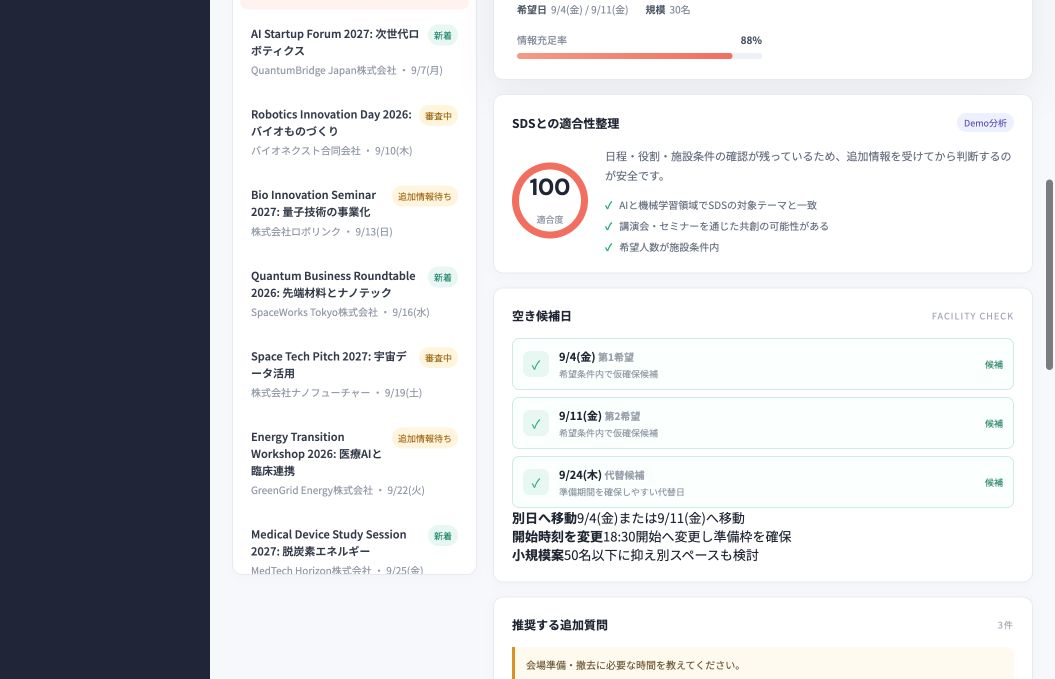
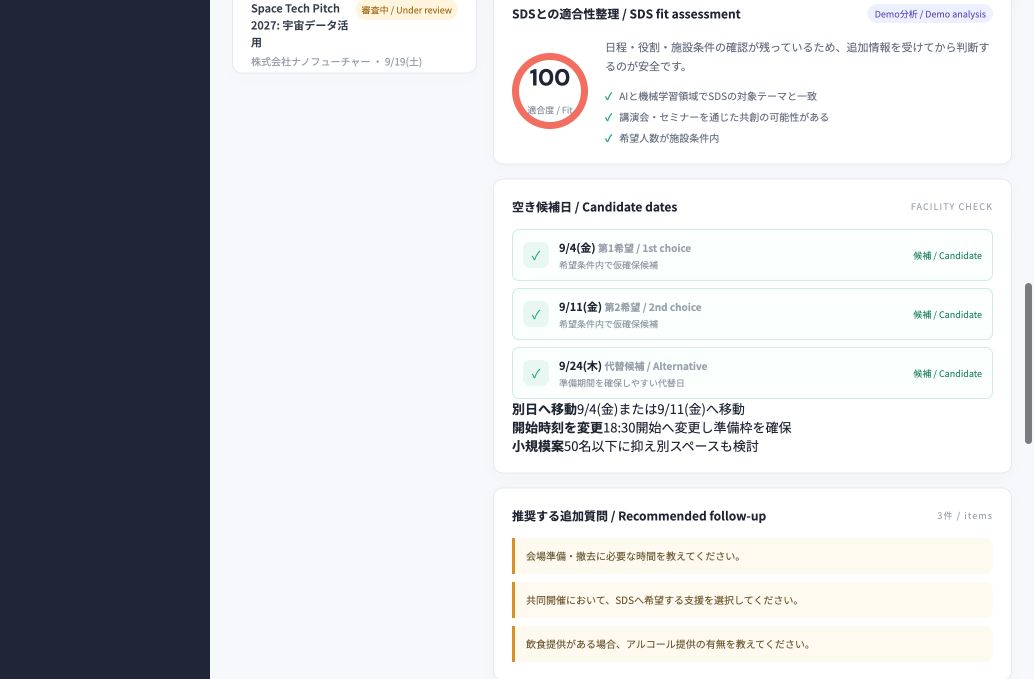
Add bilingual dashboard labels

diff --git a/public/app.js b/public/app.js
@@ -32,11 +32,11 @@ const DEMO_APPLICATION = {
 };
 
 let CASES = [
-  { id: "SDS-2026-0148", title: "AI Startup Partnership Night", company: "ネクストパルス株式会社", status: "企画面談候補", color: "coral", date: "9月17日", application: DEMO_APPLICATION },
-  { id: "SDS-2026-0147", title: "Bio Founders Roundtable", company: "ミライ細胞研究会", status: "追加情報待ち", color: "amber", date: "9月22日" },
-  { id: "SDS-2026-0146", title: "宇宙データ活用ワークショップ", company: "Orbital Mesh", status: "新着", color: "mint", date: "10月3日" },
-  { id: "SDS-2026-0145", title: "量子×金融 勉強会", company: "クォンタムブリッジ", status: "審査中", color: "amber", date: "10月8日" },
-  { id: "SDS-2026-0144", title: "地域エネルギー共創会議", company: "東海エナジーラボ", status: "新着", color: "mint", date: "10月15日" },
+  { id: "SDS-2026-0148", title: "AI Startup Partnership Night", company: "ネクストパルス株式会社", status: "企画面談候補 / Planning candidate", color: "coral", date: "9月17日", application: DEMO_APPLICATION },
+  { id: "SDS-2026-0147", title: "Bio Founders Roundtable", company: "ミライ細胞研究会", status: "追加情報待ち / Awaiting info", color: "amber", date: "9月22日" },
+  { id: "SDS-2026-0146", title: "宇宙データ活用ワークショップ", company: "Orbital Mesh", status: "新着 / New", color: "mint", date: "10月3日" },
+  { id: "SDS-2026-0145", title: "量子×金融 勉強会", company: "クォンタムブリッジ", status: "審査中 / Under review", color: "amber", date: "10月8日" },
+  { id: "SDS-2026-0144", title: "地域エネルギー共創会議", company: "東海エナジーラボ", status: "新着 / New", color: "mint", date: "10月15日" },
 ];
 
 let state = { application: structuredClone(DEMO_APPLICATION), analysis: null, activeCase: DEMO_APPLICATION.id, scenario: false, analyzing: false };
@@ -44,6 +44,24 @@ let state = { application: structuredClone(DEMO_APPLICATION), analysis: null, ac
 const $ = (selector) => document.querySelector(selector);
 const escapeHtml = (value) => String(value ?? "").replace(/[&<>'"]/g, (char) => ({ "&": "&amp;", "<": "&lt;", ">": "&gt;", "'": "&#39;", '"': "&quot;" })[char]);
 const initials = (value) => String(value || "S").replace(/株式会社|合同会社/g, "").slice(0, 2);
+const statusLabel = (status) => ({
+  "企画面談候補": "企画面談候補 / Planning candidate",
+  "追加情報待ち": "追加情報待ち / Awaiting info",
+  "新着": "新着 / New",
+  "審査中": "審査中 / Under review",
+}[status] || status);
+const candidateLabel = (label) => ({
+  "第1希望": "第1希望 / 1st choice",
+  "第2希望": "第2希望 / 2nd choice",
+  "代替候補": "代替候補 / Alternative",
+}[label] || label);
+const priorityLabel = (priority) => ({ 高: "高 / High", 中: "中 / Medium", 低: "低 / Low" }[priority] || priority);
+const ownerLabel = (owner) => ({ 運営: "運営 / Operations", 企画: "企画 / Planning", コミュニティ: "コミュニティ / Community" }[owner] || owner);
+const roleLabel = (role) => ({
+  "課題提供・審査員": "課題提供・審査員 / Challenge owner & judge",
+  "登壇・デモ": "登壇・デモ / Speaker & demo",
+  "個別面談": "個別面談 / 1:1 meeting",
+}[role] || role);
 const formatDate = (value) => {
   const normalized = String(value || "").replaceAll("/", "-");
   return normalized ? new Intl.DateTimeFormat("ja-JP", { month: "numeric", day: "numeric", weekday: "short" }).format(new Date(`${normalized}T00:00:00`)) : "未定";
@@ -105,19 +123,19 @@ function demoAnalysis() {
 
 function renderCaseList() {
   if ($("#queueCount")) $("#queueCount").textContent = CASES.length;
-  if ($("#caseCount")) $("#caseCount").textContent = `${CASES.length}件の案件`;
-  if ($("#unprocessedKpi")) $("#unprocessedKpi").innerHTML = `${CASES.length}<span class="kpi-unit">件</span>`;
-  $("#caseList").innerHTML = CASES.map((item) => `<div class="case-row ${item.id === state.activeCase ? "selected" : ""}" data-case-id="${item.id}"><div class="case-row-top"><div class="case-row-title">${escapeHtml(item.title)}</div><span class="status-pill ${item.color}">${escapeHtml(item.status)}</span></div><div class="case-row-company">${escapeHtml(item.company)} ・ ${item.date}</div></div>`).join("");
+  if ($("#caseCount")) $("#caseCount").textContent = `${CASES.length}件 / cases`;
+  if ($("#unprocessedKpi")) $("#unprocessedKpi").innerHTML = `${CASES.length}<span class="kpi-unit">件 / cases</span>`;
+  $("#caseList").innerHTML = CASES.map((item) => `<div class="case-row ${item.id === state.activeCase ? "selected" : ""}" data-case-id="${item.id}"><div class="case-row-top"><div class="case-row-title">${escapeHtml(item.title)}</div><span class="status-pill ${item.color}">${escapeHtml(statusLabel(item.status))}</span></div><div class="case-row-company">${escapeHtml(item.company)} ・ ${item.date}</div></div>`).join("");
   document.querySelectorAll(".case-row").forEach((row) => row.addEventListener("click", () => { const item = CASES.find((candidate) => candidate.id === row.dataset.caseId); if (item?.application) state.application = structuredClone(item.application); state.activeCase = row.dataset.caseId; state.scenario = false; state.analysis = demoAnalysis(); render(); }));
 }
 
 function renderAnalysis(a) {
-  const questionHtml = a.missingQuestions?.length ? a.missingQuestions.map((question) => `<div class="question-item">${escapeHtml(question)}</div>`).join("") : `<div class="empty-state">現時点で大きな不足はありません。運営確認へ進めます。</div>`;
-  const dates = a.candidates?.map((candidate) => `<div class="date-item ${candidate.available ? "available" : "blocked"}"><div class="date-icon">${candidate.available ? "✓" : "×"}</div><div class="date-copy"><strong>${escapeHtml(formatDate(candidate.date))} <span class="muted">${escapeHtml(candidate.label)}</span></strong><small>${escapeHtml(candidate.reason || "")}</small></div><span class="date-badge">${candidate.available ? "候補" : "利用困難"}</span></div>`).join("") || "";
-  const members = a.memberMatches?.map((member) => `<div class="member-item"><div class="member-avatar">${escapeHtml(initials(member.label))}</div><div><strong>${escapeHtml(member.label)}</strong><small>${escapeHtml(member.reason)}</small></div><span class="match-tag">${escapeHtml(member.role)}</span></div>`).join("") || `<div class="empty-state">候補を整理中です。</div>`;
-  const tasks = a.tasks?.map((task) => `<div class="task-item"><span class="task-check"></span><div><strong>${escapeHtml(task.label)}</strong><small>${escapeHtml(task.owner)}</small></div><span class="task-meta priority-${task.priority === "高" ? "high" : task.priority === "中" ? "mid" : "low"}">${escapeHtml(task.priority)}</span></div>`).join("") || "";
+  const questionHtml = a.missingQuestions?.length ? a.missingQuestions.map((question) => `<div class="question-item">${escapeHtml(question)}</div>`).join("") : `<div class="empty-state">現時点で大きな不足はありません。運営確認へ進めます。 / No major gaps found. Ready for operator review.</div>`;
+  const dates = a.candidates?.map((candidate) => `<div class="date-item ${candidate.available ? "available" : "blocked"}"><div class="date-icon">${candidate.available ? "✓" : "×"}</div><div class="date-copy"><strong>${escapeHtml(formatDate(candidate.date))} <span class="muted">${escapeHtml(candidateLabel(candidate.label))}</span></strong><small>${escapeHtml(candidate.reason || "")}</small></div><span class="date-badge">${candidate.available ? "候補 / Candidate" : "利用困難 / Unavailable"}</span></div>`).join("") || "";
+  const members = a.memberMatches?.map((member) => `<div class="member-item"><div class="member-avatar">${escapeHtml(initials(member.label))}</div><div><strong>${escapeHtml(member.label)}</strong><small>${escapeHtml(member.reason)}</small></div><span class="match-tag">${escapeHtml(roleLabel(member.role))}</span></div>`).join("") || `<div class="empty-state">候補を整理中です。 / Matching candidates are being prepared.</div>`;
+  const tasks = a.tasks?.map((task) => `<div class="task-item"><span class="task-check"></span><div><strong>${escapeHtml(task.label)}</strong><small>${escapeHtml(ownerLabel(task.owner))}</small></div><span class="task-meta priority-${task.priority === "高" ? "high" : task.priority === "中" ? "mid" : "low"}">${escapeHtml(priorityLabel(task.priority))}</span></div>`).join("") || "";
   const alternatives = a.alternativePlans?.map((item) => `<div class="alternative"><strong>${escapeHtml(item.title)}</strong><span>${escapeHtml(item.detail)}</span></div>`).join("") || "";
-  return `<div class="detail-grid"><div class="detail-card"><div class="section-heading"><h3>SDSとの適合性整理</h3><span class="mode-tag ${a.mode === "kimi" ? "kimi" : ""}">${a.mode === "kimi" ? "KIMI分析" : "Demo分析"}</span></div><div class="fit-layout"><div class="fit-score" style="background:conic-gradient(var(--coral) 0 ${Math.round((a.fitScore || 0) * 3.6)}deg,#f0f1f4 ${Math.round((a.fitScore || 0) * 3.6)}deg 360deg)"><strong>${a.fitScore}</strong><small>適合度</small></div><div class="fit-copy"><p>${escapeHtml(a.fitSummary || a.recommendedReason)}</p><ul class="bullet-list">${a.fitReasons.map((reason) => `<li>${escapeHtml(reason)}</li>`).join("")}</ul></div></div></div><div class="detail-card date-card"><div class="section-heading"><h3>空き候補日</h3><span class="section-kicker">FACILITY CHECK</span></div><div class="date-list">${dates}</div><div class="alternative-list">${alternatives}</div></div><div class="detail-card"><div class="section-heading"><h3>推奨する追加質問</h3><span class="section-kicker">${a.missingQuestions?.length || 0}件</span></div><div class="questions">${questionHtml}</div></div><div class="detail-card"><div class="section-heading"><h3>会員・パートナー候補</h3><span class="section-kicker">匿名概要</span></div><div class="member-list">${members}</div></div><div class="detail-card"><div class="section-heading"><h3>運営タスク</h3><span class="section-kicker">${a.tasks?.length || 0}件</span></div><div class="task-list">${tasks}</div></div><div class="detail-card"><div class="section-heading"><h3>返信案</h3><button class="link-btn" data-action="copy-reply">コピー</button></div><div class="reply-box" id="replyDraft">${escapeHtml(a.replyDraft)}</div><div class="reply-footer"><button class="link-btn" data-action="edit-reply">返信案を編集する →</button></div></div></div>`;
+  return `<div class="detail-grid"><div class="detail-card"><div class="section-heading"><h3>SDSとの適合性整理 / SDS fit assessment</h3><span class="mode-tag ${a.mode === "kimi" ? "kimi" : ""}">${a.mode === "kimi" ? "KIMI分析 / KIMI analysis" : "Demo分析 / Demo analysis"}</span></div><div class="fit-layout"><div class="fit-score" style="background:conic-gradient(var(--coral) 0 ${Math.round((a.fitScore || 0) * 3.6)}deg,#f0f1f4 ${Math.round((a.fitScore || 0) * 3.6)}deg 360deg)"><strong>${a.fitScore}</strong><small>適合度 / Fit</small></div><div class="fit-copy"><p>${escapeHtml(a.fitSummary || a.recommendedReason)}</p><ul class="bullet-list">${a.fitReasons.map((reason) => `<li>${escapeHtml(reason)}</li>`).join("")}</ul></div></div></div><div class="detail-card date-card"><div class="section-heading"><h3>空き候補日 / Candidate dates</h3><span class="section-kicker">FACILITY CHECK</span></div><div class="date-list">${dates}</div><div class="alternative-list">${alternatives}</div></div><div class="detail-card"><div class="section-heading"><h3>推奨する追加質問 / Recommended follow-up</h3><span class="section-kicker">${a.missingQuestions?.length || 0}件 / items</span></div><div class="questions">${questionHtml}</div></div><div class="detail-card"><div class="section-heading"><h3>会員・パートナー候補 / Member & partner candidates</h3><span class="section-kicker">匿名概要 / Anonymous profiles</span></div><div class="member-list">${members}</div></div><div class="detail-card"><div class="section-heading"><h3>運営タスク / Operations tasks</h3><span class="section-kicker">${a.tasks?.length || 0}件 / items</span></div><div class="task-list">${tasks}</div></div><div class="detail-card"><div class="section-heading"><h3>返信案 / Reply draft</h3><button class="link-btn" data-action="copy-reply">コピー / Copy</button></div><div class="reply-box" id="replyDraft">${escapeHtml(a.replyDraft)}</div><div class="reply-footer"><button class="link-btn" data-action="edit-reply">返信案を編集する / Edit reply →</button></div></div></div>`;
 }
 
 function render() {
@@ -126,25 +144,25 @@ function render() {
   $("#completionKpi").innerHTML = `${a.completion}<span class="kpi-unit">%</span>`;
   const app = state.application;
   const activeCase = CASES.find((item) => item.id === state.activeCase) || {};
-  $("#caseDetail").innerHTML = `<div class="detail-hero"><div class="detail-hero-main"><div class="detail-title-line"><h2>${escapeHtml(app.title)}</h2><span class="status-pill ${activeCase.color || "coral"}">${escapeHtml(activeCase.status || "企画面談候補")}</span><span class="mode-tag ${a.mode === "kimi" ? "kimi" : ""}">${a.mode === "kimi" ? "KIMI分析済み" : "デモデータ"}</span></div><div class="hero-meta"><span><strong>申込ID</strong>${escapeHtml(app.id)}</span><span><strong>申込者</strong>${escapeHtml(app.company)}</span><span><strong>希望日</strong>${escapeHtml(formatDate(app.firstDate))} / ${escapeHtml(formatDate(app.secondDate))}</span><span><strong>規模</strong>${escapeHtml(app.attendeeCount)}名</span></div><div class="progress-block"><div class="progress-label"><span>情報充足率</span><strong>${a.completion}%</strong></div><div class="progress-track"><div class="progress-fill" style="width:${a.completion}%"></div></div></div></div><div class="hero-actions"><button class="secondary-btn" data-action="ask-more">追加情報を依頼</button><button class="primary-btn" data-action="advance">企画面談へ進める</button></div></div>${renderAnalysis(a)}`;
+  $("#caseDetail").innerHTML = `<div class="detail-hero"><div class="detail-hero-main"><div class="detail-title-line"><h2>${escapeHtml(app.title)}</h2><span class="status-pill ${activeCase.color || "coral"}">${escapeHtml(statusLabel(activeCase.status || "企画面談候補"))}</span><span class="mode-tag ${a.mode === "kimi" ? "kimi" : ""}">${a.mode === "kimi" ? "KIMI分析済み / KIMI analyzed" : "デモデータ / Demo data"}</span></div><div class="hero-meta"><span><strong>申込ID / Application ID</strong>${escapeHtml(app.id)}</span><span><strong>申込者 / Applicant</strong>${escapeHtml(app.company)}</span><span><strong>希望日 / Requested dates</strong>${escapeHtml(formatDate(app.firstDate))} / ${escapeHtml(formatDate(app.secondDate))}</span><span><strong>規模 / Scale</strong>${escapeHtml(app.attendeeCount)}名 / people</span></div><div class="progress-block"><div class="progress-label"><span>情報充足率 / Completeness</span><strong>${a.completion}%</strong></div><div class="progress-track"><div class="progress-fill" style="width:${a.completion}%"></div></div></div></div><div class="hero-actions"><button class="secondary-btn" data-action="ask-more">追加情報を依頼 / Request info</button><button class="primary-btn" data-action="advance">企画面談へ進める / Advance to planning</button></div></div>${renderAnalysis(a)}`;
   document.querySelectorAll("[data-action]").forEach((button) => button.addEventListener("click", () => handleAction(button.dataset.action)));
 }
 
 function handleAction(action) {
-  if (action === "copy-reply") navigator.clipboard?.writeText($("#replyDraft")?.textContent || "").then(() => toast("返信案をコピーしました"));
-  if (action === "edit-reply") toast("返信案の編集モードは次の拡張で追加できます");
-  if (action === "ask-more") toast("追加情報依頼タスクを作成しました");
-  if (action === "advance") toast("企画面談へ進める判断を記録しました");
+  if (action === "copy-reply") navigator.clipboard?.writeText($("#replyDraft")?.textContent || "").then(() => toast("返信案をコピーしました / Reply draft copied"));
+  if (action === "edit-reply") toast("返信案の編集モードは次の拡張で追加できます / Reply editing is planned for the next extension");
+  if (action === "ask-more") toast("追加情報依頼タスクを作成しました / Follow-up task created");
+  if (action === "advance") toast("企画面談へ進める判断を記録しました / Planning-meeting decision recorded");
 }
 
 async function runAnalysis() {
-  state.analyzing = true; $("#analyzeButton").classList.add("loading"); $("#analyzeButton").innerHTML = "✦ 分析中…";
+  state.analyzing = true; $("#analyzeButton").classList.add("loading"); $("#analyzeButton").innerHTML = "✦ 分析中 / Analyzing…";
   try {
     const response = await fetch("/api/analyze", { method: "POST", headers: { "content-type": "application/json" }, body: JSON.stringify(state.application) });
     const payload = await response.json();
     if (!response.ok) throw new Error(payload.error || "分析に失敗しました");
-    state.analysis = payload; render(); toast(payload.mode === "kimi" ? "KIMI 2.7の分析結果を反映しました" : "デモ分析結果を反映しました（APIキー未設定）");
-  } catch (error) { toast(error.message); } finally { state.analyzing = false; $("#analyzeButton").classList.remove("loading"); $("#analyzeButton").innerHTML = '<span class="sparkle">✦</span> KIMIで再分析'; }
+    state.analysis = payload; render(); toast(payload.mode === "kimi" ? "KIMI 2.7の分析結果を反映しました / KIMI analysis applied" : "デモ分析結果を反映しました（APIキー未設定） / Demo analysis applied (API key not configured)");
+  } catch (error) { toast(`${error.message} / Analysis failed`); } finally { state.analyzing = false; $("#analyzeButton").classList.remove("loading"); $("#analyzeButton").innerHTML = '<span class="sparkle">✦</span> KIMIで再分析 / Re-run with KIMI'; }
 }
 
 function parseCsv(text) {
@@ -201,10 +219,10 @@ function mapCsvRow(row, index = 0) {
 
 function buildCsvCases(rows) {
   const statuses = [
-    ["企画面談候補", "coral"],
-    ["追加情報待ち", "amber"],
-    ["新着", "mint"],
-    ["審査中", "amber"],
+    ["企画面談候補 / Planning candidate", "coral"],
+    ["追加情報待ち / Awaiting info", "amber"],
+    ["新着 / New", "mint"],
+    ["審査中 / Under review", "amber"],
   ];
   return rows.map((row, index) => {
     const application = mapCsvRow(row, index);
@@ -225,16 +243,16 @@ async function loadBundledDemoData() {
     state.scenario = false;
     state.analysis = demoAnalysis();
     render();
-    toast(`デモCSVから${rows.length}件の申込案件を読み込みました`);
+    toast(`デモCSVから${rows.length}件の申込案件を読み込みました / Loaded ${rows.length} demo applications`);
   } catch (error) {
     console.warn("Bundled demo CSV could not be loaded", error);
   }
 }
 
 $("#analyzeButton").addEventListener("click", runAnalysis);
-$("#scenarioButton").addEventListener("click", () => { state.scenario = !state.scenario; toast(state.scenario ? "9月17日を利用困難なケースに変更しました" : "通常の希望条件に戻しました"); state.analysis = demoAnalysis(); render(); });
-$("#resetButton").addEventListener("click", () => { state.application = structuredClone(DEMO_APPLICATION); state.scenario = false; state.analysis = demoAnalysis(); render(); toast("デモ案件をリセットしました"); });
+$("#scenarioButton").addEventListener("click", () => { state.scenario = !state.scenario; toast(state.scenario ? "第1希望日を利用困難に変更しました / First requested date is now unavailable" : "通常の希望条件に戻しました / Restored normal conditions"); state.analysis = demoAnalysis(); render(); });
+$("#resetButton").addEventListener("click", () => { state.application = structuredClone(DEMO_APPLICATION); state.scenario = false; state.analysis = demoAnalysis(); render(); toast("デモ案件をリセットしました / Demo case reset"); });
 $("#importCsv").addEventListener("click", () => $("#csvInput").click());
-$("#csvInput").addEventListener("change", async (event) => { const file = event.target.files?.[0]; if (!file) return; const rows = parseCsv(await file.text()); if (!rows.length) return toast("CSVにデータ行がありません"); CASES = buildCsvCases(rows); state.application = structuredClone(CASES[0].application); state.activeCase = CASES[0].id; state.scenario = false; state.analysis = demoAnalysis(); render(); toast(`${rows.length}件の申込案件を読み込みました`); });
+$("#csvInput").addEventListener("change", async (event) => { const file = event.target.files?.[0]; if (!file) return; const rows = parseCsv(await file.text()); if (!rows.length) return toast("CSVにデータ行がありません / No data rows found in CSV"); CASES = buildCsvCases(rows); state.application = structuredClone(CASES[0].application); state.activeCase = CASES[0].id; state.scenario = false; state.analysis = demoAnalysis(); render(); toast(`${rows.length}件の申込案件を読み込みました / Loaded ${rows.length} applications`); });
 state.analysis = demoAnalysis(); render();
 loadBundledDemoData();

diff --git a/public/index.html b/public/index.html
@@ -13,35 +13,35 @@
     <div class="app-shell">
       <aside class="sidebar">
         <div class="brand"><span class="brand-mark">S</span><span>SDS <b>Producer</b></span></div>
-        <div class="workspace-switcher"><span class="pulse-dot"></span><span>運営ワークスペース</span><span class="chevron">⌄</span></div>
-        <nav class="main-nav" aria-label="メインナビゲーション">
-          <button class="nav-item active"><span>▦</span>申込み案件<span class="nav-count" id="queueCount">50</span></button>
-          <button class="nav-item"><span>◌</span>候補日カレンダー</button>
-          <button class="nav-item"><span>♧</span>会員マッチング</button>
-          <button class="nav-item"><span>✓</span>運営タスク<span class="nav-count amber">7</span></button>
+        <div class="workspace-switcher"><span class="pulse-dot"></span><span>運営ワークスペース / Operations Workspace</span><span class="chevron">⌄</span></div>
+        <nav class="main-nav" aria-label="メインナビゲーション / Main navigation">
+          <button class="nav-item active"><span>▦</span>申込み案件 / Applications<span class="nav-count" id="queueCount">50</span></button>
+          <button class="nav-item"><span>◌</span>候補日カレンダー / Candidate Calendar</button>
+          <button class="nav-item"><span>♧</span>会員マッチング / Member Matching</button>
+          <button class="nav-item"><span>✓</span>運営タスク / Operations Tasks<span class="nav-count amber">7</span></button>
         </nav>
-        <div class="sidebar-section-label">データ</div>
-        <button class="nav-item" id="importCsv"><span>↥</span>CSVを取り込む</button>
+        <div class="sidebar-section-label">データ / DATA</div>
+        <button class="nav-item" id="importCsv"><span>↥</span>CSVを取り込む / Import CSV</button>
         <input id="csvInput" type="file" accept=".csv,text/csv" hidden />
         <div class="sidebar-bottom">
-          <div class="kimi-card"><div class="kimi-orb">✦</div><div><div class="eyebrow">AI ENGINE</div><strong>KIMI 2.7</strong><small>分析補助が有効</small></div><span class="online-dot"></span></div>
-          <div class="user-row"><span class="avatar">YU</span><div><strong>Yusuke</strong><small>運営担当</small></div><span class="more">•••</span></div>
+          <div class="kimi-card"><div class="kimi-orb">✦</div><div><div class="eyebrow">AI ENGINE</div><strong>KIMI 2.7</strong><small>分析補助が有効 / Analysis ready</small></div><span class="online-dot"></span></div>
+          <div class="user-row"><span class="avatar">YU</span><div><strong>Yusuke</strong><small>運営担当 / Operator</small></div><span class="more">•••</span></div>
         </div>
       </aside>
 
       <main class="main-content">
-        <header class="topbar"><div class="breadcrumbs"><span>SDS運営</span><span>/</span><strong>申込み案件</strong></div><div class="top-actions"><button class="icon-btn" title="通知">♢<span class="notification-dot"></span></button><button class="help-btn">? ヘルプ</button><button class="primary-btn compact" id="analyzeButton"><span class="sparkle">✦</span> KIMIで再分析</button></div></header>
-        <section class="page-heading"><div><div class="eyebrow coral">OPERATIONS INBOX</div><h1>申込み案件</h1><p>申込みを判断可能な案件に整え、次の対応まで進めます。</p></div><div class="heading-actions"><button class="secondary-btn" id="scenarioButton">条件変更を試す</button><button class="secondary-btn" id="resetButton">デモをリセット</button></div></section>
+        <header class="topbar"><div class="breadcrumbs"><span>SDS運営 / SDS Operations</span><span>/</span><strong>申込み案件 / Applications</strong></div><div class="top-actions"><button class="icon-btn" title="通知 / Notifications">♢<span class="notification-dot"></span></button><button class="help-btn">? ヘルプ / Help</button><button class="primary-btn compact" id="analyzeButton"><span class="sparkle">✦</span> KIMIで再分析 / Re-run with KIMI</button></div></header>
+        <section class="page-heading"><div><div class="eyebrow coral">OPERATIONS INBOX</div><h1>申込み案件 / Event Applications</h1><p>申込みを判断可能な案件に整え、次の対応まで進めます。<br />Turn applications into decision-ready cases and next steps.</p></div><div class="heading-actions"><button class="secondary-btn" id="scenarioButton">条件変更を試す / Simulate change</button><button class="secondary-btn" id="resetButton">デモをリセット / Reset demo</button></div></section>
 
-        <section class="kpi-grid" aria-label="案件サマリー">
-          <article class="kpi-card"><div class="kpi-label">未処理案件</div><div class="kpi-value" id="unprocessedKpi">50<span class="kpi-unit">件</span></div><div class="kpi-trend up">↗ 3件 今週</div></article>
-          <article class="kpi-card accent"><div class="kpi-label">初回情報充足率</div><div class="kpi-value" id="completionKpi">92<span class="kpi-unit">%</span></div><div class="kpi-trend up">↗ 8pt 前月比</div></article>
-          <article class="kpi-card"><div class="kpi-label">平均初回返信</div><div class="kpi-value">1.8<span class="kpi-unit">h</span></div><div class="kpi-trend neutral">目標 4h以内</div></article>
-          <article class="kpi-card"><div class="kpi-label">今週の企画面談</div><div class="kpi-value">08<span class="kpi-unit">件</span></div><div class="kpi-trend amber">要確認 2件</div></article>
+        <section class="kpi-grid" aria-label="案件サマリー / Application summary">
+          <article class="kpi-card"><div class="kpi-label">未処理案件 / Unprocessed applications</div><div class="kpi-value" id="unprocessedKpi">50<span class="kpi-unit">件 / cases</span></div><div class="kpi-trend up">↗ 3件 / cases this week</div></article>
+          <article class="kpi-card accent"><div class="kpi-label">初回情報充足率 / Initial completeness</div><div class="kpi-value" id="completionKpi">92<span class="kpi-unit">%</span></div><div class="kpi-trend up">↗ 8pt 前月比 / vs last month</div></article>
+          <article class="kpi-card"><div class="kpi-label">平均初回返信 / Avg. first reply</div><div class="kpi-value">1.8<span class="kpi-unit">h</span></div><div class="kpi-trend neutral">目標 4h以内 / target &lt;4h</div></article>
+          <article class="kpi-card"><div class="kpi-label">今週の企画面談 / Planning meetings this week</div><div class="kpi-value">08<span class="kpi-unit">件 / cases</span></div><div class="kpi-trend amber">要確認 2件 / review</div></article>
         </section>
 
         <section class="workspace-grid">
-          <div class="case-list card"><div class="card-header"><div><h2>申込みキュー</h2><span class="muted" id="caseCount">50件の案件</span></div><button class="filter-btn">すべて⌄</button></div><div class="case-list-items" id="caseList"></div></div>
+          <div class="case-list card"><div class="card-header"><div><h2>申込みキュー / Application queue</h2><span class="muted" id="caseCount">50件 / cases</span></div><button class="filter-btn">すべて / All⌄</button></div><div class="case-list-items" id="caseList"></div></div>
           <div class="case-detail" id="caseDetail"></div>
         </section>
         <div class="toast" id="toast" role="status"></div>
